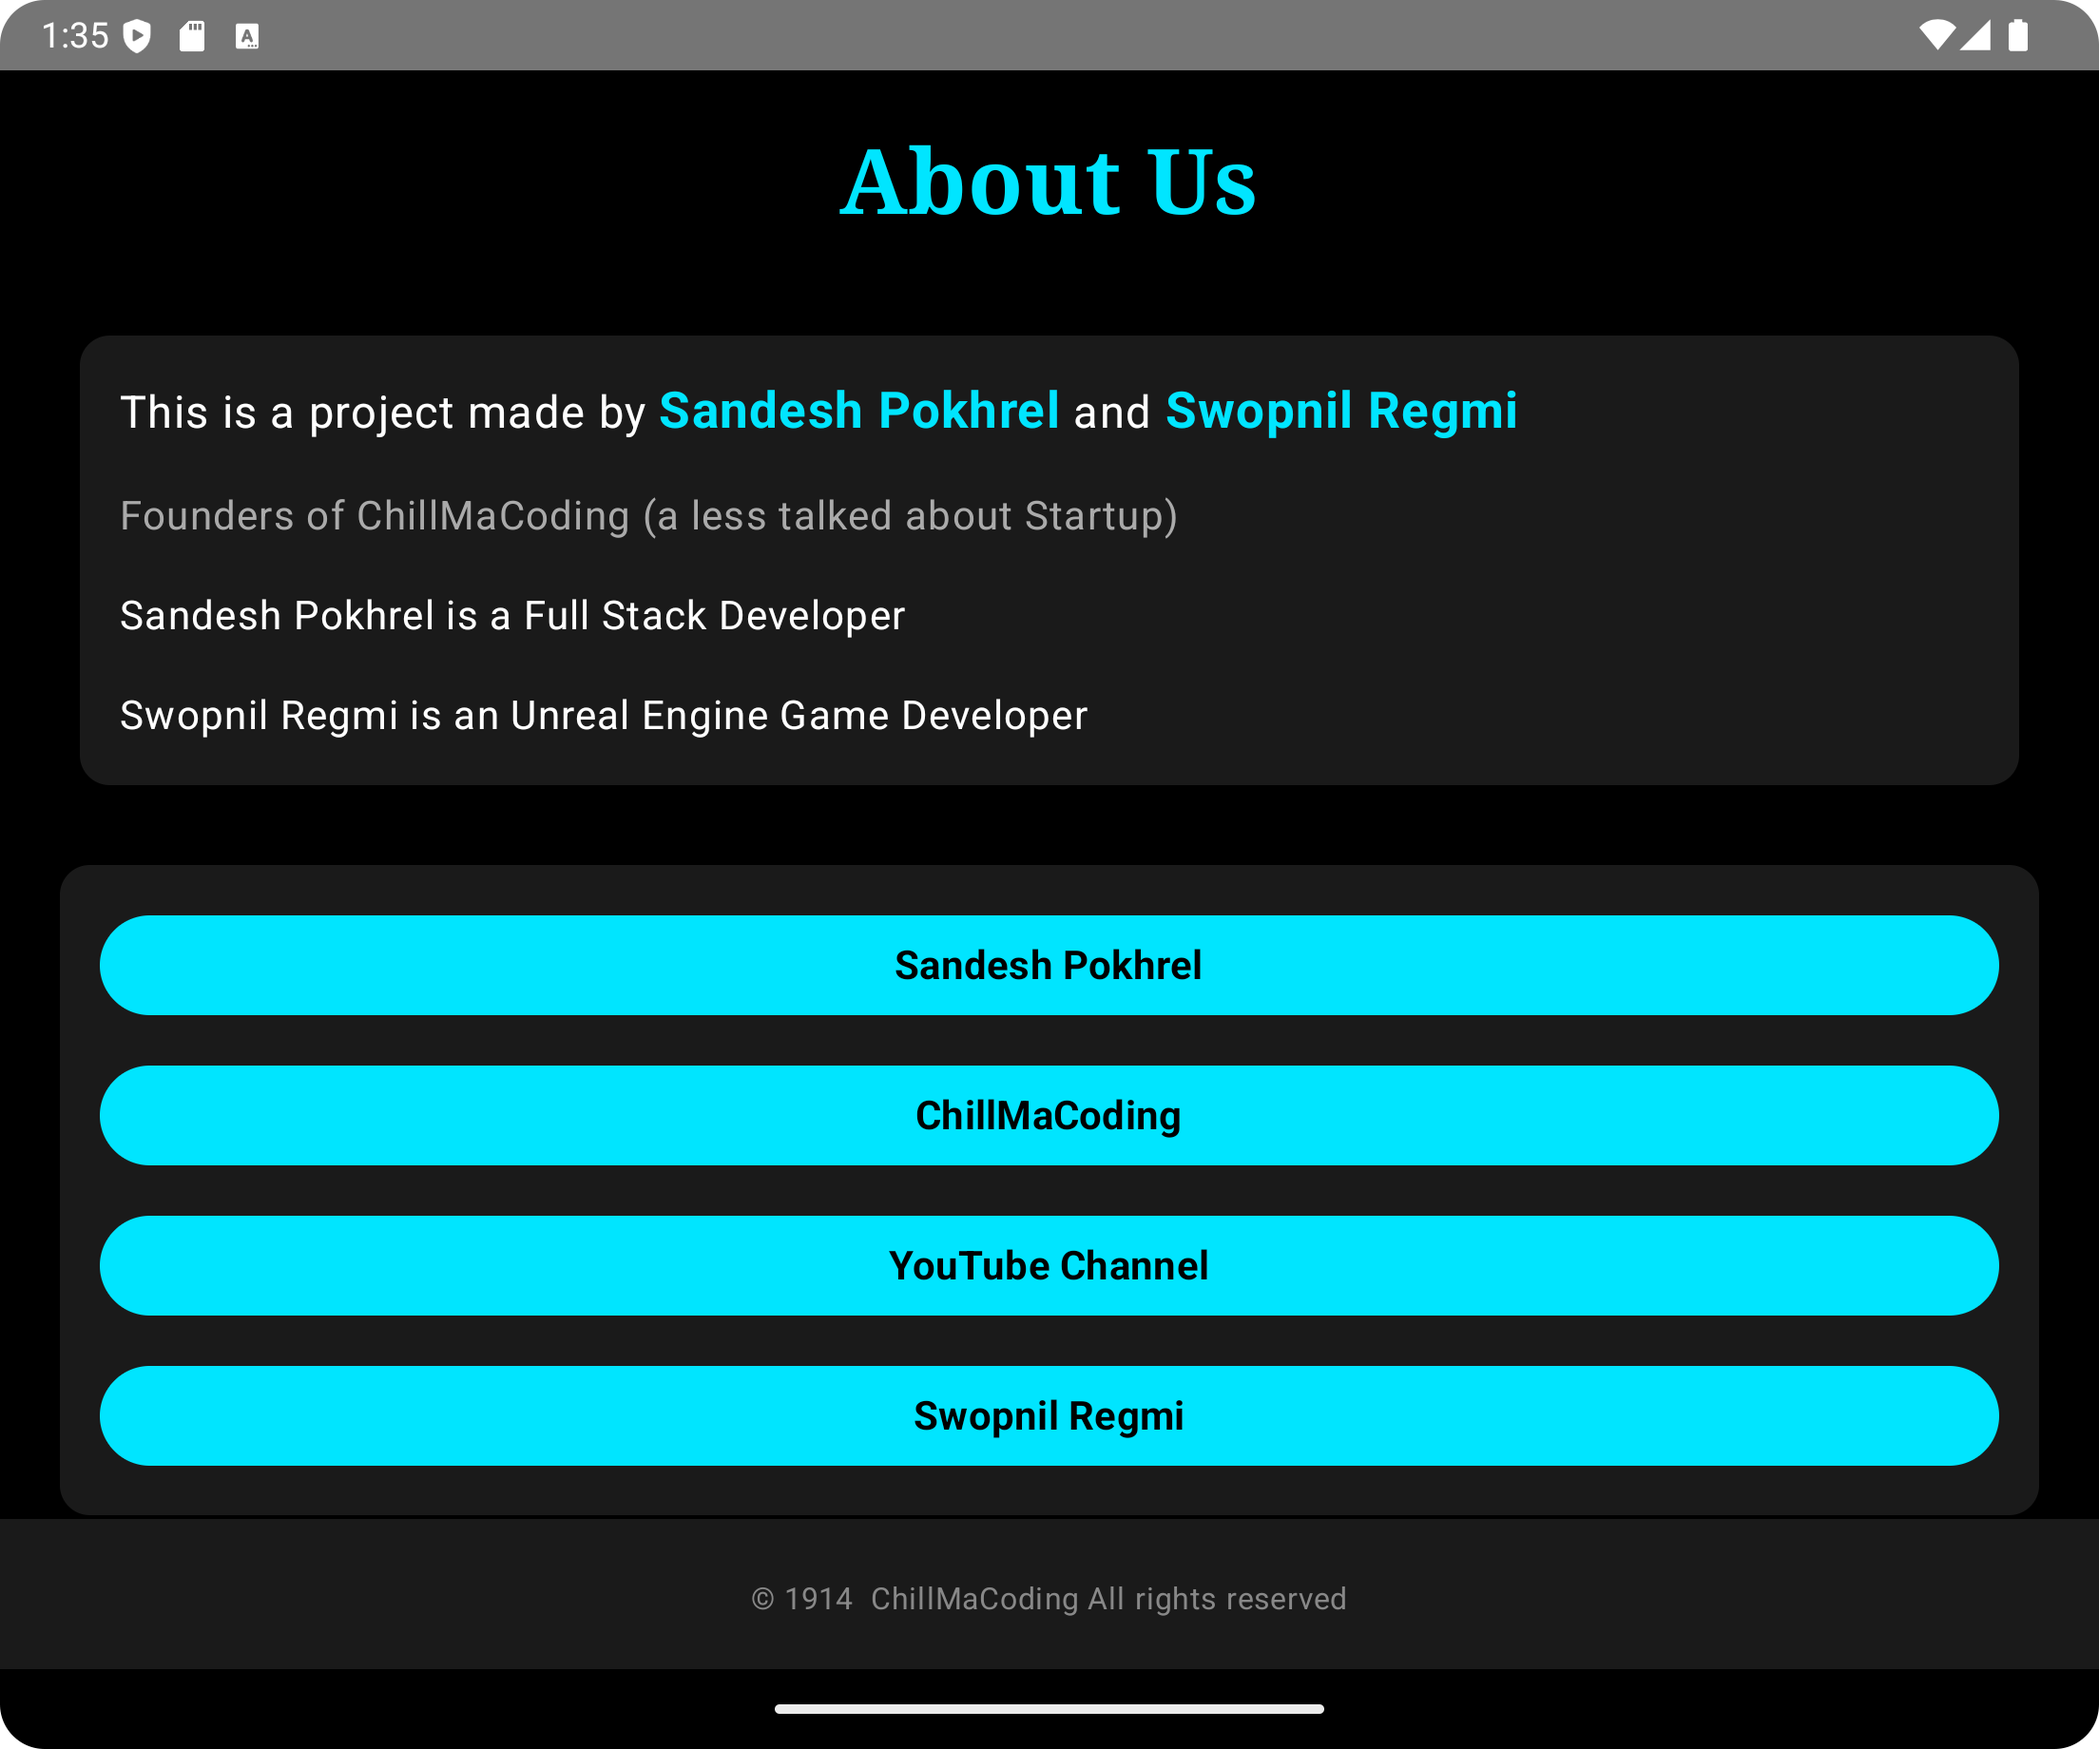
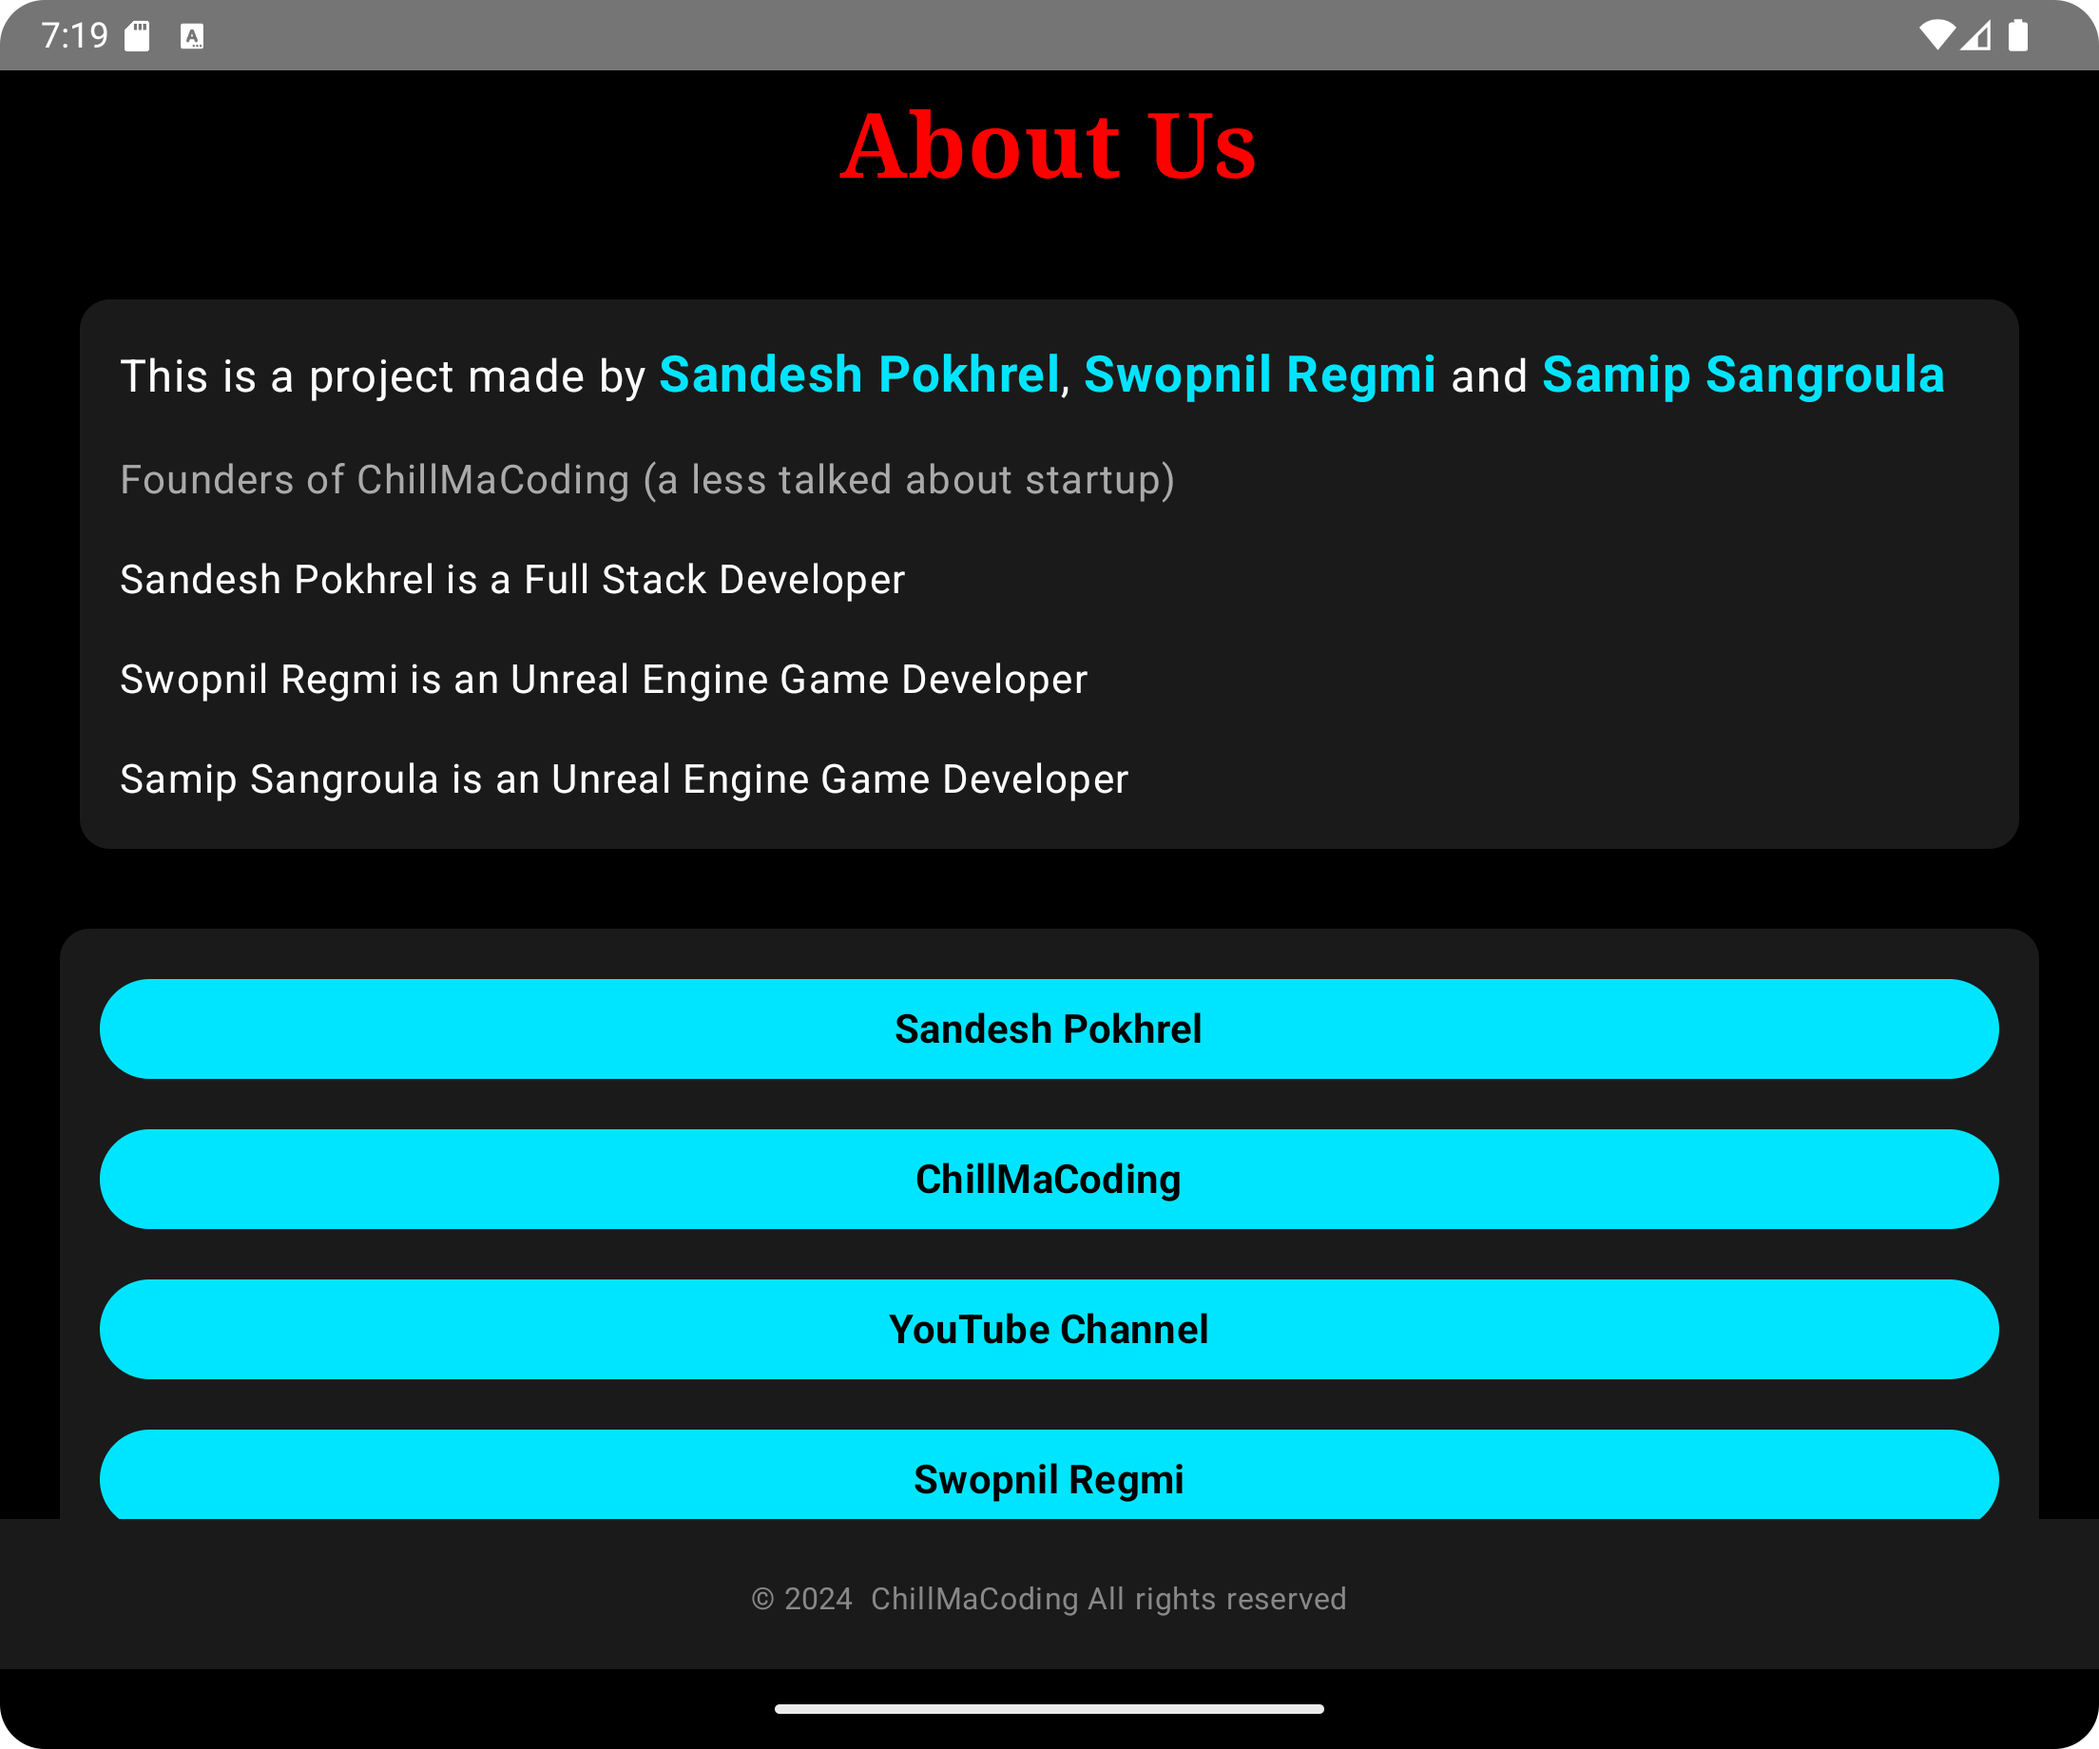
welcome samip sir

diff --git a/app/src/main/java/com/example/androidgames/MainActivity7.kt b/app/src/main/java/com/example/androidgames/MainActivity7.kt
@@ -68,7 +68,7 @@ fun AboutUsContent() {
         // Title
         Text(
             text = "About Us",
-            color = Color(0xFF00E5FF),
+            color = Color(0xFFFF0000), // Red color
             fontSize = 36.sp,
             fontWeight = FontWeight.Bold,
             fontFamily = FontFamily.Serif,
@@ -96,13 +96,21 @@ fun AboutUsContent() {
                         )) {
                             append("Sandesh Pokhrel")
                         }
-                        append(" and ")
+                        append(", ")
                         withStyle(style = SpanStyle(
                             color = Color(0xFF00E5FF),
                             fontWeight = FontWeight.Bold,
                             fontSize = 20.sp
                         )) {
                             append("Swopnil Regmi")
+                        }
+                        append(" and ")
+                        withStyle(style = SpanStyle(
+                            color = Color(0xFF00E5FF),
+                            fontWeight = FontWeight.Bold,
+                            fontSize = 20.sp
+                        )) {
+                            append("Samip Sangroula")
                         }
                     },
                     color = Color.White,
@@ -111,7 +119,7 @@ fun AboutUsContent() {
                 )
 
                 Text(
-                    text = "Founders of ChillMaCoding (a less talked about Startup)",
+                    text = "Founders of ChillMaCoding (a less talked about startup)",
                     color = Color(0xFFAAAAAA),
                     fontSize = 16.sp
                 )
@@ -124,6 +132,12 @@ fun AboutUsContent() {
 
                 Text(
                     text = "Swopnil Regmi is an Unreal Engine Game Developer",
+                    color = Color.White,
+                    fontSize = 16.sp
+                )
+
+                Text(
+                    text = "Samip Sangroula is an Unreal Engine Game Developer",
                     color = Color.White,
                     fontSize = 16.sp
                 )
@@ -155,6 +169,10 @@ fun AboutUsContent() {
             LinkButton(
                 text = "Swopnil Regmi",
                 url = "https://x.com/Swopnil71"
+            )
+            LinkButton(
+                text = "Samip Sangroula",
+                url = "https://x.com/SamipSangroula"
             )
         }
     }
@@ -200,7 +218,7 @@ fun Footer(modifier: Modifier = Modifier) {
             Spacer(modifier = Modifier.height(4.dp))
 
             Text(
-                text = "© 1914  ChillMaCoding All rights reserved",
+                text = "© 2024  ChillMaCoding All rights reserved",
                 color = Color.Gray,
                 fontSize = 12.sp
             )
